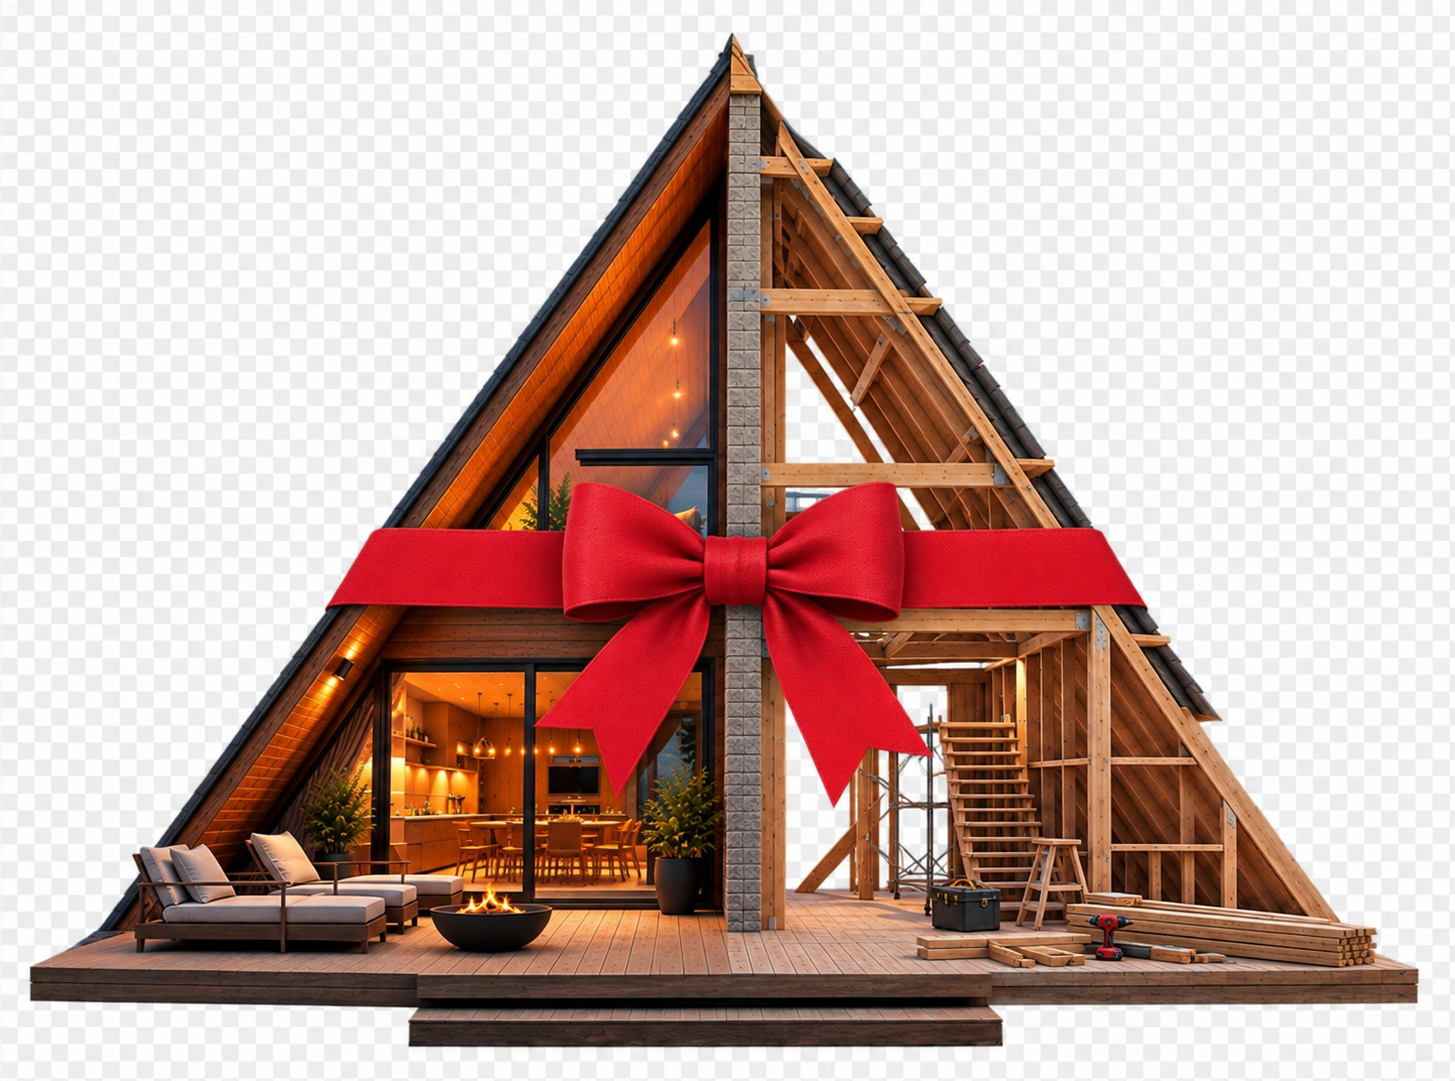
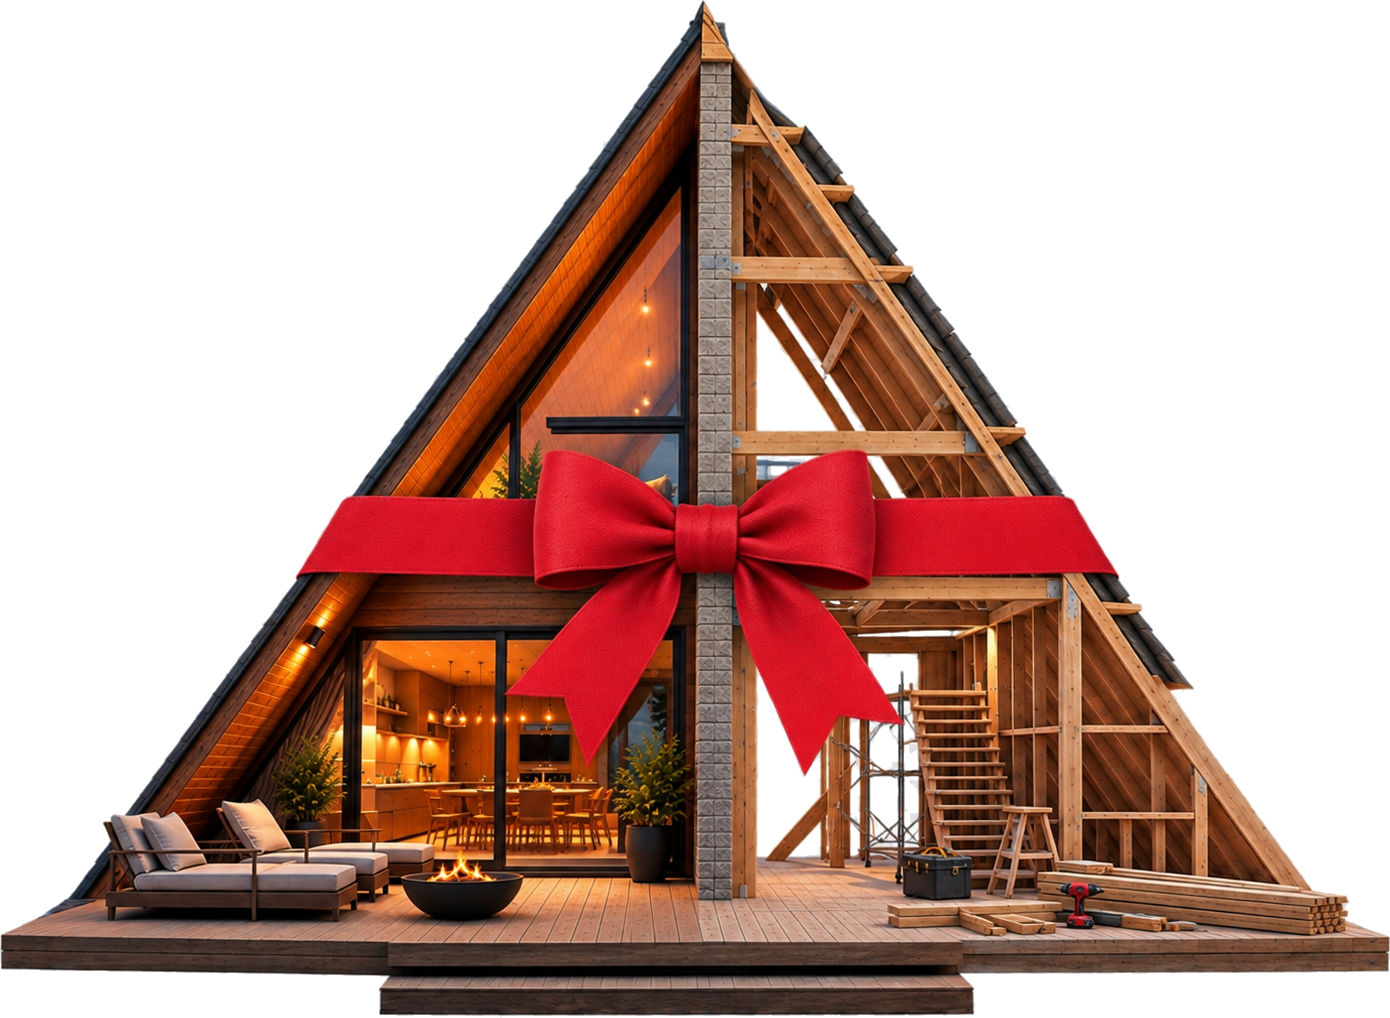
Add National Day 96 offer section (996 vs 1150 SAR/m²) after numbers band
- Cut-out offer image (fake checkerboard removed, edges feathered, WebP)
- OFFER block in content.js with active flag; calculator uses offer rate
  and shows list price struck through; nav link added

diff --git a/Frontend/src/sections/Offer.jsx b/Frontend/src/sections/Offer.jsx
@@ -1,0 +1,78 @@
+import WhatsAppButton from "../components/WhatsAppButton";
+import { OFFER } from "../data/content";
+import { Reveal } from "../lib/motion";
+
+const fmt = (n) => n.toLocaleString("en-US");
+
+/*
+  العرض الخاص: الصورة على اليمين، والعرض على اليسار.
+  لوحة فاتحة بحدود ناعمة، شارة خضراء صغيرة لليوم الوطني، والسعر القديم مشطوب.
+*/
+export default function Offer() {
+  if (!OFFER.active) return null;
+
+  return (
+    <section id="offer" className="bg-white py-20 sm:py-24">
+      <div className="mx-auto max-w-7xl px-5 sm:px-8">
+        <Reveal>
+          <div className="relative rounded-3xl bg-stone border border-line overflow-hidden">
+            <div className="grid lg:grid-cols-12 items-center gap-8 lg:gap-4 p-6 sm:p-10 lg:p-14">
+              {/* الصورة — على اليمين */}
+              <Reveal variant="clip" delay={80} className="lg:col-span-6 order-first">
+                <div className="relative">
+                  <img
+                    src={OFFER.image}
+                    alt="كوخ خشبي A-Frame مربوط بشريط أحمر — عرض اليوم الوطني"
+                    className="w-full h-auto max-h-[520px] object-contain drop-shadow-[0_30px_40px_rgba(20,16,13,0.25)]"
+                    width="1390"
+                    height="1018"
+                    loading="lazy"
+                  />
+                </div>
+              </Reveal>
+
+              {/* النص — على اليسار */}
+              <div className="lg:col-span-6 text-right lg:ps-6">
+                <Reveal delay={120} className="inline-flex items-center gap-2 h-8 px-3 rounded-full bg-[#006c35] text-white text-xs font-medium">
+                  <span className="w-1.5 h-1.5 rounded-full bg-white/80" />
+                  {OFFER.badge}
+                </Reveal>
+                <Reveal as="h2" delay={180} className="mt-5 font-display font-bold text-4xl sm:text-5xl lg:text-[3.4rem] leading-[1.15] text-ink">
+                  {OFFER.title.map((line) => (
+                    <span key={line} className="block">
+                      {line}
+                    </span>
+                  ))}
+                </Reveal>
+
+                <Reveal delay={240} className="mt-7 flex items-end gap-4">
+                  <span className="wood-text-dark font-display font-bold text-7xl sm:text-8xl leading-none num">{fmt(OFFER.price)}</span>
+                  <span className="mb-2">
+                    <span className="block text-sm text-walnut">{OFFER.unit}</span>
+                    <span className="block text-lg text-ink/45 num line-through decoration-2 decoration-ink/40">{fmt(OFFER.listPrice)}</span>
+                  </span>
+                </Reveal>
+
+                <Reveal as="p" delay={300} className="mt-6 text-base sm:text-lg text-ink/70 leading-relaxed max-w-lg">
+                  {OFFER.text}
+                </Reveal>
+                <Reveal as="p" delay={340} className="mt-3 text-sm text-ink/50">
+                  {OFFER.note}
+                </Reveal>
+
+                <Reveal delay={380} className="mt-8 flex flex-wrap items-center gap-x-7 gap-y-4">
+                  <WhatsAppButton message={OFFER.whatsapp} size="lg">
+                    {OFFER.cta}
+                  </WhatsAppButton>
+                  <a href="#calculator" className="link-underline text-ink font-medium">
+                    {OFFER.secondary}
+                  </a>
+                </Reveal>
+              </div>
+            </div>
+          </div>
+        </Reveal>
+      </div>
+    </section>
+  );
+}

diff --git a/Frontend/src/components/CostCalculator.jsx b/Frontend/src/components/CostCalculator.jsx
@@ -3,7 +3,7 @@ import * as Slider from "@radix-ui/react-slider";
 import gsap from "gsap";
 import SectionHeader from "./SectionHeader";
 import { CONTACT, telLink } from "../config/contact";
-import { CALC, CALC_MODELS, CALC_ADDONS } from "../data/content";
+import { CALC, CALC_MODELS, CALC_ADDONS, OFFER } from "../data/content";
 import { Reveal, prefersReducedMotion } from "../lib/motion";
 import { WhatsAppIcon, waButtonClass } from "./WhatsAppButton";
 
@@ -102,9 +102,11 @@ export default function CostCalculator() {
   }, []);
 
   const model = useMemo(() => CALC_MODELS.find((m) => m.id === modelId) || CALC_MODELS[0], [modelId]);
+  // أثناء العرض يُحسب بسعر العرض ويظهر السعر الأصلي مشطوباً
+  const rate = OFFER.active ? OFFER.price : model.ratePerMeter;
   const toggleAddon = (id) => setAddons((prev) => (prev.includes(id) ? prev.filter((a) => a !== id) : [...prev, id]));
 
-  const structureCost = area * model.ratePerMeter;
+  const structureCost = area * rate;
   const addonsCost = addons.reduce((sum, id) => sum + (CALC_ADDONS.find((a) => a.id === id)?.cost || 0), 0);
   const total = structureCost + addonsCost;
   const minCost = total * 0.95;
@@ -120,7 +122,8 @@ export default function CostCalculator() {
       `%0A- النوع: ${model.name}` +
       `%0A- المساحة: ${area} م²` +
       `%0A- الإضافات: ${addonNames || "بدون"}` +
-      `%0A- التقدير: ${fmt(minCost)} – ${fmt(maxCost)} ر.س`;
+      `%0A- التقدير: ${fmt(minCost)} – ${fmt(maxCost)} ر.س` +
+      (OFFER.active ? `%0A- بسعر عرض ${OFFER.badge} (${fmt(OFFER.price)} ر.س/م²)` : "");
     window.open(`${CONTACT.whatsappUrl}?text=${message}`, "_blank");
   };
 
@@ -256,7 +259,10 @@ export default function CostCalculator() {
               <div className="relative p-6 sm:p-8 h-full flex flex-col">
                 <div className="flex items-center justify-between gap-3">
                   <div>
-                    <span className="block text-[11px] tracking-[0.18em] text-white/50">التقدير</span>
+                    <span className="block text-[11px] tracking-[0.18em] text-white/50">
+                      التقدير
+                      {OFFER.active && <span className="ms-2 inline-flex items-center h-5 px-2 rounded-full bg-[#006c35] text-white text-[10px] tracking-normal align-middle">{OFFER.badge}</span>}
+                    </span>
                     <span className="block mt-1 font-display font-semibold text-lg">{model.name}</span>
                   </div>
                   <ModelIcon id={model.icon} className="w-12 h-9 text-oak-light shrink-0" />
@@ -278,7 +284,10 @@ export default function CostCalculator() {
                   </div>
                   <div>
                     <dt className="text-white/45">سعر المتر</dt>
-                    <dd className="num mt-0.5">{fmt(model.ratePerMeter)}</dd>
+                    <dd className="num mt-0.5">
+                      {fmt(rate)}
+                      {OFFER.active && <span className="ms-1.5 text-white/40 line-through">{fmt(model.ratePerMeter)}</span>}
+                    </dd>
                   </div>
                   <div>
                     <dt className="text-white/45">الإضافات</dt>

diff --git a/Frontend/src/data/content.js b/Frontend/src/data/content.js
@@ -18,6 +18,7 @@ export const IMAGES = {
 
 /* روابط شريط التنقل */
 export const NAV_LINKS = [
+  { label: "العرض", href: "#offer" },
   { label: "المواصفات", href: "#specs" },
   { label: "الأفكار", href: "#ideas" },
   { label: "الحاسبة", href: "#calculator" },
@@ -39,6 +40,22 @@ export const NUMBERS = [
   { value: "5", unit: "طبقات", label: "نظام السقف" },
   { value: "15", unit: "سنة", label: "ضمان يصل حتى 15 سنة" },
 ];
+
+/* العرض الخاص — اجعل active: false لإخفاء القسم وإرجاع السعر الأصلي في الحاسبة */
+export const OFFER = {
+  active: true,
+  badge: "اليوم الوطني 96",
+  title: ["كوخك بسعر", "996 ر.س للمتر."],
+  text: "بمناسبة اليوم الوطني السادس والتسعين، سعر المتر المربع 996 ر.س بدلاً من 1150 — على الأكواخ والبرجولات كلها، وبنفس المواصفات: جدار سنوبر 12 سم، سقف من 5 طبقات، وضمان يصل حتى 15 سنة.",
+  price: 996,
+  listPrice: 1150,
+  unit: "ر.س / م²",
+  note: "لفترة محدودة، ويسري على التعاقدات خلال فترة العرض.",
+  cta: "احجز بسعر العرض",
+  secondary: "احسب تكلفتك بسعر العرض",
+  whatsapp: "مرحباً خشبي، أرغب في الاستفادة من عرض اليوم الوطني 96 (996 ر.س للمتر).",
+  image: "/images/wood-offer.webp",
+};
 
 /* المواصفات الفنية */
 export const SPECS = {

diff --git a/Frontend/src/App.jsx b/Frontend/src/App.jsx
@@ -5,6 +5,7 @@ import CostCalculator from "./components/CostCalculator";
 
 import Hero from "./sections/Hero";
 import Numbers from "./sections/Numbers";
+import Offer from "./sections/Offer";
 import Specs from "./sections/Specs";
 import Ideas from "./sections/Ideas";
 import Testimonials from "./sections/Testimonials";
@@ -18,6 +19,7 @@ export default function App() {
       <main>
         <Hero />
         <Numbers />
+        <Offer />
         <Specs />
         <Ideas />
         <CostCalculator />

diff --git a/Frontend/README.md b/Frontend/README.md
@@ -46,6 +46,7 @@ Frontend/
     └── sections/               ← أقسام الصفحة بالترتيب
         ├── Hero.jsx            ← النص يمين + الكوخ يسار يتركّب مع الاسكرول (GSAP ScrollTrigger)
         ├── Numbers.jsx         ← شريط الأرقام (بني داكن)
+        ├── Offer.jsx           ← العرض الخاص (يُخفى بـ OFFER.active = false في content.js)
         ├── Specs.jsx           ← الجدران 12 سم، طبقات السقف (تتراكب مع الاسكرول)، الزجاج
         ├── Ideas.jsx           ← أفكار: صف بطاقات يتحرك وحده ببطء نحو اليمين (حلقة مستقلة عن الاسكرول)
         ├── Testimonials.jsx    ← بطاقات على شكل ألواح خشب تُرصّ عند الظهور فوق خلفية خشبية
